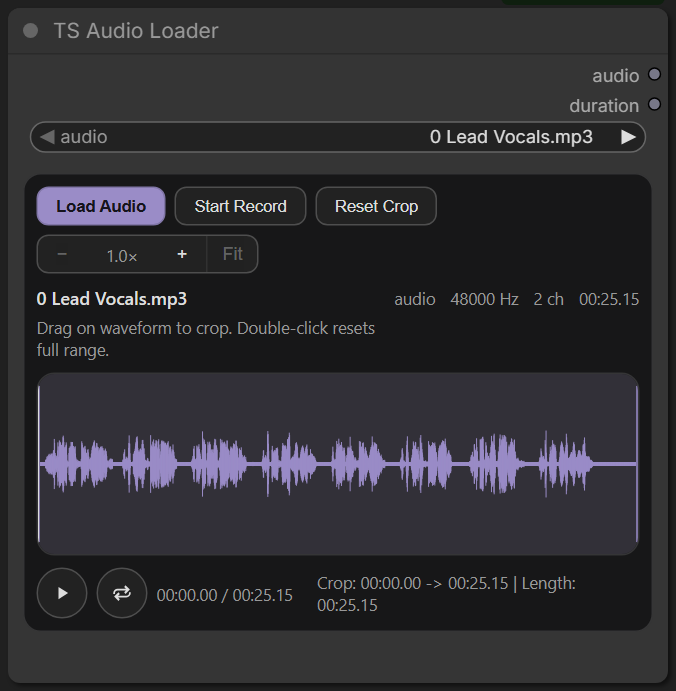
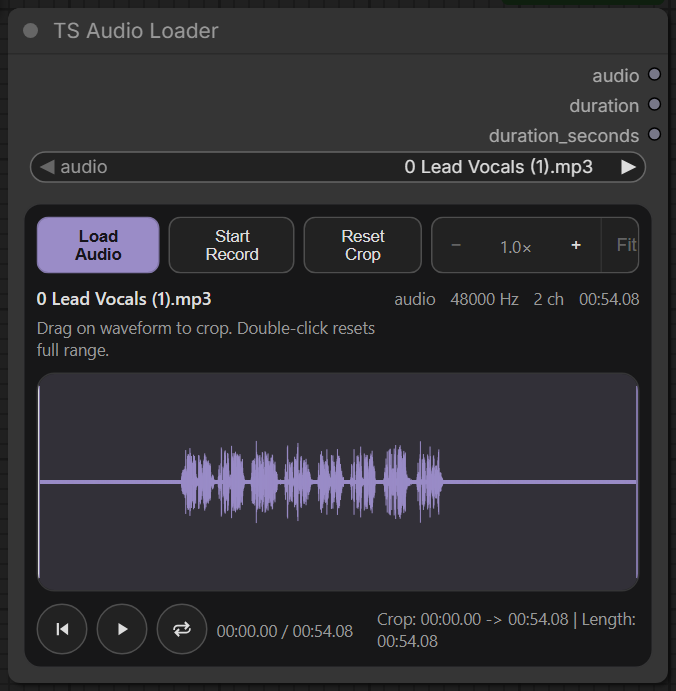
release: 12.11.1 — аудио-нода узнаёт свой файл и умеет вернуться в начало лупа
TS Audio Loader больше не краснеет после перезагрузки вкладки

Симптом: загрузили трек, открыли сохранённый workflow — нода красная, «A
required media input has no file selected». Файл лежал на месте, и прогон бы
прошёл: ругался только интерфейс.

Причина — два написания одного пути. Список файлов нода собирала средствами
системы, и на Windows файл в подпапке назывался
`ts_audio_loader_recordings\take.wav`, тогда как весь остальной ComfyUI пишет
`ts_audio_loader_recordings/take.wav` — так его возвращает `/upload/image`, так
его сохраняет маршрут записи, так он лежит в файле workflow. Сканер
недостающих медиа сравнивает эти строки БУКВАЛЬНО, снимая только хвост
` [input]` (прочитано в его исходниках, а не предположено), и своего же файла
не узнавал. Замерено на живом сервере: корневой трек проходил, запись с
микрофона — нет.

Список теперь с прямыми косыми на любой ОС — то же решение и по той же
причине, что в `ts_pasted_media_fix.py` для картинок. Одной этой правки мало:
граф, где файл выбран из выпадашки со старым написанием, стал бы красным
вместо прежнего зелёного, поэтому фронтенд приводит сохранённый путь к общему
виду при восстановлении ноды — до того, как за него возьмётся сканер. Заодно
свежезагруженный файл сразу попадает в список опций, как это делает сам
ComfyUI в своём upload-виджете: `/object_info` спрашивается при открытии
страницы, а файл появляется позже.

Кнопка «в начало лупа» — в обеих аудио-нодах
[…]

diff --git a/js/audio/loader/_audio_helpers.js b/js/audio/loader/_audio_helpers.js
@@ -70,6 +70,7 @@ const STRINGS = {
         fitTitle: "Reset zoom and pan to full waveform",
         noFile: "No file selected",
         loopTitle: "Loop playback",
+        toLoopStartTitle: "Send the playhead back to the start of the loop",
         loadAudioTitle: "Pick an audio or video file — it is uploaded into the ComfyUI input folder",
         startRecordTitle: "Record from the microphone straight into this node",
         resetCropTitle: "Take the whole file again, dropping the trim",
@@ -112,6 +113,7 @@ const STRINGS = {
         fitTitle: "Сбросить масштаб и показать всю волну",
         noFile: "Файл не выбран",
         loopTitle: "Зациклить воспроизведение",
+        toLoopStartTitle: "Вернуть курсор в начало лупа",
         loadAudioTitle: "Выбрать аудио- или видеофайл — он загрузится в папку input ComfyUI",
         startRecordTitle: "Записать с микрофона прямо в эту ноду",
         resetCropTitle: "Взять файл целиком, сбросив обрезку",
@@ -258,6 +260,39 @@ function setWidgetValue(node, name, value) {
     node.properties[name] = value;
 }
 function getWidgetValue(node, name, fallback) { return getWidget(node, name)?.value ?? fallback; }
+// ComfyUI's own annotation for a file living in one of its media folders.
+const SOURCE_ANNOTATION_PATTERN = /\s+\[(input|output|temp)\]$/;
+/**
+ * Путь внутри папки input — всегда с прямыми косыми.
+ *
+ * ⚠ Так его пишет всё остальное: ответ `/upload/image`, маршрут записи этой
+ * ноды и сохранённый workflow. Список же файлов до 16.09.2026 приезжал с
+ * разделителями системы, и на Windows значение из подпапки
+ * (`ts_audio_loader_recordings/take.wav [input]`) не совпадало со своей же
+ * опцией (`ts_audio_loader_recordings\take.wav`). Сканер недостающих медиа
+ * сравнивает эти строки буквально, снимая только суффикс, — и красил ноду
+ * после перезагрузки вкладки, хотя файл лежал на месте. Бэкенд теперь отдаёт
+ * прямые косые; эта функция чинит значения, уже сохранённые в графах.
+ */
+function normalizeSourcePathValue(value) {
+    return String(value ?? "").replace(/\\/g, "/");
+}
+/**
+ * Показать значение в списке опций виджета, если его там ещё нет.
+ *
+ * ComfyUI делает то же самое после своей загрузки файла: `/object_info`
+ * фронтенд спрашивает при открытии страницы, а файл появляется позже — без
+ * этой строки только что загруженный трек считается пропавшим до следующей
+ * перезагрузки. В список кладётся имя БЕЗ аннотации: сканер снимает суффикс
+ * сам, а выпадающий список остаётся таким же, как у штатных нод.
+ */
+function rememberSourceOption(node, value) {
+    const options = getWidget(node, INPUT_SOURCE_PATH)?.options?.values;
+    if (!Array.isArray(options)) return;
+    const name = normalizeSourcePathValue(value).replace(SOURCE_ANNOTATION_PATTERN, "");
+    if (!name || options.includes(name)) return;
+    options.push(name);
+}
 function readPersistedNumber(node, name, fallback) {
     const widgetValue = getWidget(node, name)?.value;
     if (widgetValue !== undefined && widgetValue !== null && widgetValue !== "") {
@@ -282,6 +317,8 @@ function scheduleCanvasDirty() { app?.graph?.setDirtyCanvas?.(true, true); }
 function playIcon() { return `<svg viewBox="0 0 24 24"><path d="M8 5v14l11-7z"/></svg>`; }
 function pauseIcon() { return `<svg viewBox="0 0 24 24"><path d="M6 19h4V5H6zm8-14v14h4V5z"/></svg>`; }
 function loopIcon() { return `<svg viewBox="0 0 24 24"><path d="M7 7h9.5l-2-2L16 3l5 5-5 5-1.5-2 2-2H7a3 3 0 0 0-3 3v1H2v-1a5 5 0 0 1 5-5zm10 10H7.5l2 2L8 21l-5-5 5-5 1.5 2-2 2H17a3 3 0 0 0 3-3v-1h2v1a5 5 0 0 1-5 5z"/></svg>`; }
+// Полоса и треугольник к ней — привычное «к началу» из любого плеера.
+function toLoopStartIcon() { return `<svg viewBox="0 0 24 24"><path d="M6 5h2.5v14H6zm13 0v14l-9.5-7z"/></svg>`; }
 function isMediaPlaying(media) {
     return Boolean(media && !media.paused && !media.ended && media.currentTime >= 0);
 }
@@ -311,7 +348,7 @@ export function setupAudioLoader(node) {
 
     const state = {
         mode: String(getWidgetValue(node, INPUT_MODE, "load") || "load"),
-        sourcePath: String(getWidgetValue(node, INPUT_SOURCE_PATH, "") || ""),
+        sourcePath: normalizeSourcePathValue(getWidgetValue(node, INPUT_SOURCE_PATH, "")),
         recordedPath: "",
         cropStart: readPersistedNumber(node, INPUT_CROP_START, 0),
         cropEnd: readPersistedNumber(node, INPUT_CROP_END, -1),
@@ -323,6 +360,15 @@ export function setupAudioLoader(node) {
         zoom: clamp(Number(node.properties?.[PROP_ZOOM]) || 1, MIN_ZOOM, MAX_ZOOM),
         viewStartSeconds: Math.max(0, Number(node.properties?.[PROP_VIEW_START]) || 0),
     };
+
+    // Нода, поднятая сразу из сохранённого графа (rehydrate до неё не дойдёт —
+    // см. loadedGraphNode), тоже обязана получить путь в общем написании.
+    if (!isPreviewNode && state.sourcePath) {
+        if (state.sourcePath !== getWidgetValue(node, INPUT_SOURCE_PATH, "")) {
+            setWidgetValue(node, INPUT_SOURCE_PATH, state.sourcePath);
+        }
+        rememberSourceOption(node, state.sourcePath);
+    }
 
     // ⚠ Пока идёт восстановление workflow, присваивание source_path НЕ должно
     // тянуть за собой сброс режима. Замерено (2026-09-11): миграция старого
@@ -429,6 +475,10 @@ export function setupAudioLoader(node) {
     bottom.className = "ts-audio-loader__bottom";
     const transport = document.createElement("div");
     transport.className = "ts-audio-loader__transport";
+    const toLoopStartButton = document.createElement("button");
+    toLoopStartButton.className = "ts-audio-loader__play";
+    toLoopStartButton.innerHTML = toLoopStartIcon();
+    toLoopStartButton.title = L.toLoopStartTitle;
     const playButton = document.createElement("button");
     playButton.className = "ts-audio-loader__play";
     playButton.innerHTML = playIcon();
@@ -440,7 +490,7 @@ export function setupAudioLoader(node) {
     const timelineLabel = document.createElement("div");
     timelineLabel.className = "ts-audio-loader__timeline";
     timelineLabel.textContent = "00:00.00 / 00:00.00";
-    transport.append(playButton, loopButton, timelineLabel);
+    transport.append(toLoopStartButton, playButton, loopButton, timelineLabel);
     const cropLabel = document.createElement("div");
     cropLabel.className = "ts-audio-loader__crop";
     cropLabel.textContent = L.cropFull;
@@ -663,6 +713,7 @@ export function setupAudioLoader(node) {
         if (!isPreviewNode) {
             setWidgetValue(node, INPUT_MODE, state.mode);
             setWidgetValue(node, INPUT_SOURCE_PATH, state.sourcePath);
+            rememberSourceOption(node, state.sourcePath);
         }
         setWidgetValue(node, INPUT_CROP_START, Number(state.cropStart || 0));
         const bounds = getSelectionBounds();
@@ -1133,6 +1184,17 @@ export function setupAudioLoader(node) {
         syncWidgets();
         updateText();
     }
+    /**
+     * Курсор — в начало лупа, то есть к левой границе выделения.
+     *
+     * Без выделения левая граница равна нулю, и кнопка отматывает к началу
+     * файла — ровно то, чего от неё ждут. Воспроизведение не трогается: идёт
+     * звук — он продолжится с новой точки, стоит — курсор просто переедет.
+     */
+    function toLoopStart() {
+        seekTo(getSelectionBounds().left);
+        updateText();
+    }
     function updateSelectionFromSeconds(left, right) {
         const duration = Math.max(0, state.duration);
         if (duration <= 0) return;
@@ -1291,6 +1353,7 @@ export function setupAudioLoader(node) {
     scrollbarThumb.addEventListener("pointerup", onScrollbarThumbPointerUp);
     scrollbarThumb.addEventListener("pointercancel", onScrollbarThumbPointerUp);
     scrollbar.addEventListener("pointerdown", onScrollbarTrackPointerDown);
+    toLoopStartButton.addEventListener("click", () => { toLoopStart(); });
     playButton.addEventListener("click", async () => { await togglePlay(); });
     loopButton.addEventListener("click", () => { toggleLoop(); });
     if (fileInput) {
@@ -1344,7 +1407,7 @@ export function setupAudioLoader(node) {
     // Теперь значение само сообщает о смене (см. watchSourceWidget ниже), а эта
     // функция осталась тем, чем была: реакцией на смену пути.
     const onSourceChanged = () => {
-        const nextSourcePath = String(getWidgetValue(node, INPUT_SOURCE_PATH, "") || "");
+        const nextSourcePath = normalizeSourcePathValue(getWidgetValue(node, INPUT_SOURCE_PATH, ""));
         if (nextSourcePath === state.sourcePath) return;
         // Восстановление графа: только запоминаем путь. Режим и остальное
         // виджеты доводит rehydrate из сохранённых значений — иначе сброс здесь
@@ -1436,9 +1499,17 @@ export function setupAudioLoader(node) {
     node._tsAudioLoaderRehydrate = () => {
         if (!isPreviewNode) {
             const restoredMode = String(getWidgetValue(node, INPUT_MODE, state.mode) || state.mode || "load");
-            const restoredSource = String(getWidgetValue(node, INPUT_SOURCE_PATH, state.sourcePath) || "");
+            const restoredSource = normalizeSourcePathValue(getWidgetValue(node, INPUT_SOURCE_PATH, state.sourcePath));
             state.mode = restoredMode;
             state.sourcePath = restoredSource;
+            // Граф мог прийти со старым написанием пути (обратные косые) — оно
+            // и подсвечивало ноду красным. Чиним значение до того, как за него
+            // возьмётся сканер недостающих медиа: он идёт после загрузки графа,
+            // а этот хук — внутри неё.
+            if (restoredSource !== getWidgetValue(node, INPUT_SOURCE_PATH, "")) {
+                setWidgetValue(node, INPUT_SOURCE_PATH, restoredSource);
+            }
+            rememberSourceOption(node, restoredSource);
         }
         // Значения из графа восстановлены — дальше onSourceChanged работает
         // как при живом взаимодействии (см. флаг у объявления state).

diff --git a/js/text/song_creator/ts-song-creator.js b/js/text/song_creator/ts-song-creator.js
@@ -68,7 +68,9 @@ const STRINGS = {
         vocalLibraryTip: "Who sings, and how. Picking a genre brings its usual voice along; "
             + "choose another here and it replaces that one rather than piling up.",
         tabStyle: "Style",
+        tabStyleTip: "The genre list: tempo, instruments and the mood of the track.",
         tabVocal: "Vocal",
+        tabVocalTip: "The voice list: it replaces the singer the genre brought with it.",
         searchStyles: "Search styles",
         searchStylesTip: "Filter by name, description or by a word in the prompt itself.",
         noStyles: "Nothing matches",
@@ -103,7 +105,9 @@ const STRINGS = {
         vocalLibraryTip: "Кто поёт и как. Жанр приводит с собой привычный для него голос; "
             + "выберите здесь другой — он ЗАМЕНИТ прежний, а не добавится к нему.",
         tabStyle: "Стиль",
+        tabStyleTip: "Список жанров: темп, инструменты и настроение трека.",
         tabVocal: "Вокал",
+        tabVocalTip: "Список голосов: выбранный заменяет того певца, которого привёл жанр.",
         searchStyles: "Поиск стиля",
         searchStylesTip: "Ищет по названию, описанию и по словам самого промпта.",
         noStyles: "Ничего не нашлось",

diff --git a/js/text/song_creator/_song_styles.js b/js/text/song_creator/_song_styles.js
@@ -90,10 +90,12 @@ export function createStyleLibrary({ onPick, onPickVocal, t, lang }) {
     styleTab.type = "button";
     styleTab.className = "ts-song-lib__tab is-active";
     styleTab.textContent = t("tabStyle");
+    styleTab.title = t("tabStyleTip");
     const vocalTab = doc.createElement("button");
     vocalTab.type = "button";
     vocalTab.className = "ts-song-lib__tab";
     vocalTab.textContent = t("tabVocal");
+    vocalTab.title = t("tabVocalTip");
     tabs.append(styleTab, vocalTab);
 
     // Пол — переключатель над списком голосов.

diff --git a/nodes/audio/loader/_audio_helpers.py b/nodes/audio/loader/_audio_helpers.py
@@ -293,14 +293,27 @@ def _normalize_selected_path(source_path: str) -> str:
 
 
 def _get_uploadable_media_options() -> list[str]:
-    """Return input-directory files compatible with ComfyUI's native upload combo."""
+    """Return input-directory files compatible with ComfyUI's native upload combo.
+
+    ⚠ Forward slashes on every platform. ``folder_paths.recursive_search``
+    names subfolder files the way the OS does, so on Windows a microphone
+    recording arrives as ``ts_audio_loader_recordings\\take.wav`` — while
+    everything else in ComfyUI writes ``ts_audio_loader_recordings/take.wav``:
+    the ``/upload/image`` response, this node's own upload route, and the value
+    stored in a saved workflow. The frontend's missing-media scanner compares
+    those strings LITERALLY (it only strips a trailing ``" [input]"``), so the
+    value never matched its own option and the node lit up red after a page
+    reload, with the file sitting on disk the whole time. Measured on the live
+    server, 2026-09-16: root files were fine, subfolder ones were not.
+    """
     input_dir = folder_paths.get_input_directory()
     try:
         files, _ = folder_paths.recursive_search(input_dir)
     except OSError as exc:
         _log_warning(f"Failed to scan input directory for media files: {exc}")
         return []
-    return sorted(folder_paths.filter_files_content_types(files, ["audio", "video"]))
+    media_files = folder_paths.filter_files_content_types(files, ["audio", "video"])
+    return sorted({_normalize_path(str(path)) for path in media_files})
 
 
 def _to_input_annotation(filepath: Path) -> str:

diff --git a/CHANGELOG.md b/CHANGELOG.md
@@ -9,6 +9,37 @@ broken here, in writing, with a way back.
 
 ---
 
+## 12.11.1
+
+### TS Audio Loader больше не краснеет после перезагрузки вкладки
+
+Симптом: загрузили трек, сохранили workflow, открыли заново — нода подсвечена
+красным, «A required media input has no file selected». Файл при этом лежал на
+месте, и прогон бы прошёл: ругался только интерфейс.
+
+Причина — два разных написания одного пути. Список файлов, который нода
+публикует, собирался средствами системы, и на Windows файл в подпапке
+назывался `ts_audio_loader_recordings\take.wav`, тогда как в сохранённом
+workflow он записан так, как его называет весь остальной ComfyUI —
+`ts_audio_loader_recordings/take.wav`. Сканер недостающих медиа сравнивает эти
+строки буквально и своего же файла не узнавал. Страдал ровно тот, кто записал
+дорожку с микрофона или держит аудио в подпапке `input`; трек, лежащий в корне,
+проходил.
+
+Теперь список всегда с прямыми косыми, а путь, сохранённый в старом графе,
+приводится к тому же виду при открытии — **старые workflow чинятся сами, ничего
+переподключать не нужно**. Заодно только что загруженный файл сразу попадает в
+список ноды: раньше он появлялся там лишь после перезагрузки страницы.
+
+### Кнопка «в начало лупа» — TS Audio Loader и TS Audio Preview
+
+В ряду транспорта появилась третья кнопка, слева от воспроизведения: она
+возвращает курсор к левой границе выделения, а если ничего не выделено — к
+началу файла. Звук при этом не прерывается: играет — продолжится с новой точки,
+стоит — просто переедет курсор.
+
+---
+
 ## 12.11.0
 
 ### TS Song Creator — новая нода: текст песни и стиль в одном редакторе

diff --git a/README.ru.md b/README.ru.md
@@ -972,6 +972,8 @@ Speech-to-text, text-to-speech, разделение на стемы, визуа
 
 Аудио-загрузчик, который вы бы написали сами, будь у вас время. Грузит аудио из любого медиа (mp3/wav/mp4/mov/…), показывает реальную waveform-волну, позволяет визуально кропать перетаскиванием по волне и даже записывать с микрофона прямо в ноде. На выходе — `AUDIO` waveform, `duration` в целых секундах и `duration_seconds` с точной дробной длиной.
 
+Кнопки транспорта слева направо: вернуть курсор в начало лупа (к левой границе выделения, а без выделения — к началу файла), воспроизведение/пауза, зацикливание.
+
 **Когда использовать:** подготовка озвучки, музыкальной подложки или любого аудио, которое нужно подрезать.
 
 ⚠ **`duration` округляет ВВЕРХ до целой секунды.** Для показа этого достаточно, но если по длительности считается число кадров, ролик выйдет длиннее речи почти на секунду. Там, где нужна точность, берите `duration_seconds` — он отдаёт ровно

diff --git a/js/docs/TS_AudioLoader/ru.md b/js/docs/TS_AudioLoader/ru.md
@@ -2,6 +2,8 @@
 
 Аудио-загрузчик, который вы бы написали сами, будь у вас время. Грузит аудио из любого медиа (mp3/wav/mp4/mov/…), показывает реальную waveform-волну, позволяет визуально кропать перетаскиванием по волне и даже записывать с микрофона прямо в ноде. На выходе — `AUDIO` waveform, `duration` в целых секундах и `duration_seconds` с точной дробной длиной.
 
+Кнопки транспорта слева направо: вернуть курсор в начало лупа (к левой границе выделения, а без выделения — к началу файла), воспроизведение/пауза, зацикливание.
+
 **Когда использовать:** подготовка озвучки, музыкальной подложки или любого аудио, которое нужно подрезать.
 
 ⚠ **`duration` округляет ВВЕРХ до целой секунды.** Для показа этого достаточно, но если по длительности считается число кадров, ролик выйдет длиннее речи почти на секунду. Там, где нужна точность, берите `duration_seconds` — он отдаёт ровно

diff --git a/README.md b/README.md
@@ -966,6 +966,8 @@ Speech-to-text, text-to-speech, music separation, a waveform visualizer, plus a 
 
 The audio loader you'd build yourself if you had time. Loads audio from any media (mp3/wav/mp4/mov/…), shows a real waveform, lets you crop visually by dragging on the waveform, and can even record from the microphone right inside the node. Outputs the `AUDIO` waveform, a whole-second `duration` int and an exact `duration_seconds` float.
 
+Transport buttons, left to right: rewind to the start of the loop (the left edge of the selection, or the file start when nothing is selected), play/pause, loop.
+
 **Use when:** preparing voiceovers, music beds, or any audio that needs trimming before processing.
 
 **Warning:** `duration` rounds UP to a whole second. That is fine for display, but if a frame count is computed from it the clip ends up almost a second longer than the speech. Where the length matters, take `duration_seconds` — it reports exactly `samples / sample_rate`.

diff --git a/js/docs/TS_AudioLoader/en.md b/js/docs/TS_AudioLoader/en.md
@@ -2,6 +2,8 @@
 
 The audio loader you'd build yourself if you had time. Loads audio from any media (mp3/wav/mp4/mov/…), shows a real waveform, lets you crop visually by dragging on the waveform, and can even record from the microphone right inside the node. Outputs the `AUDIO` waveform, a whole-second `duration` int and an exact `duration_seconds` float.
 
+Transport buttons, left to right: rewind to the start of the loop (the left edge of the selection, or the file start when nothing is selected), play/pause, loop.
+
 **Use when:** preparing voiceovers, music beds, or any audio that needs trimming before processing.
 
 **Warning:** `duration` rounds UP to a whole second. That is fine for display, but if a frame count is computed from it the clip ends up almost a second longer than the speech. Where the length matters, take `duration_seconds` — it reports exactly `samples / sample_rate`.
